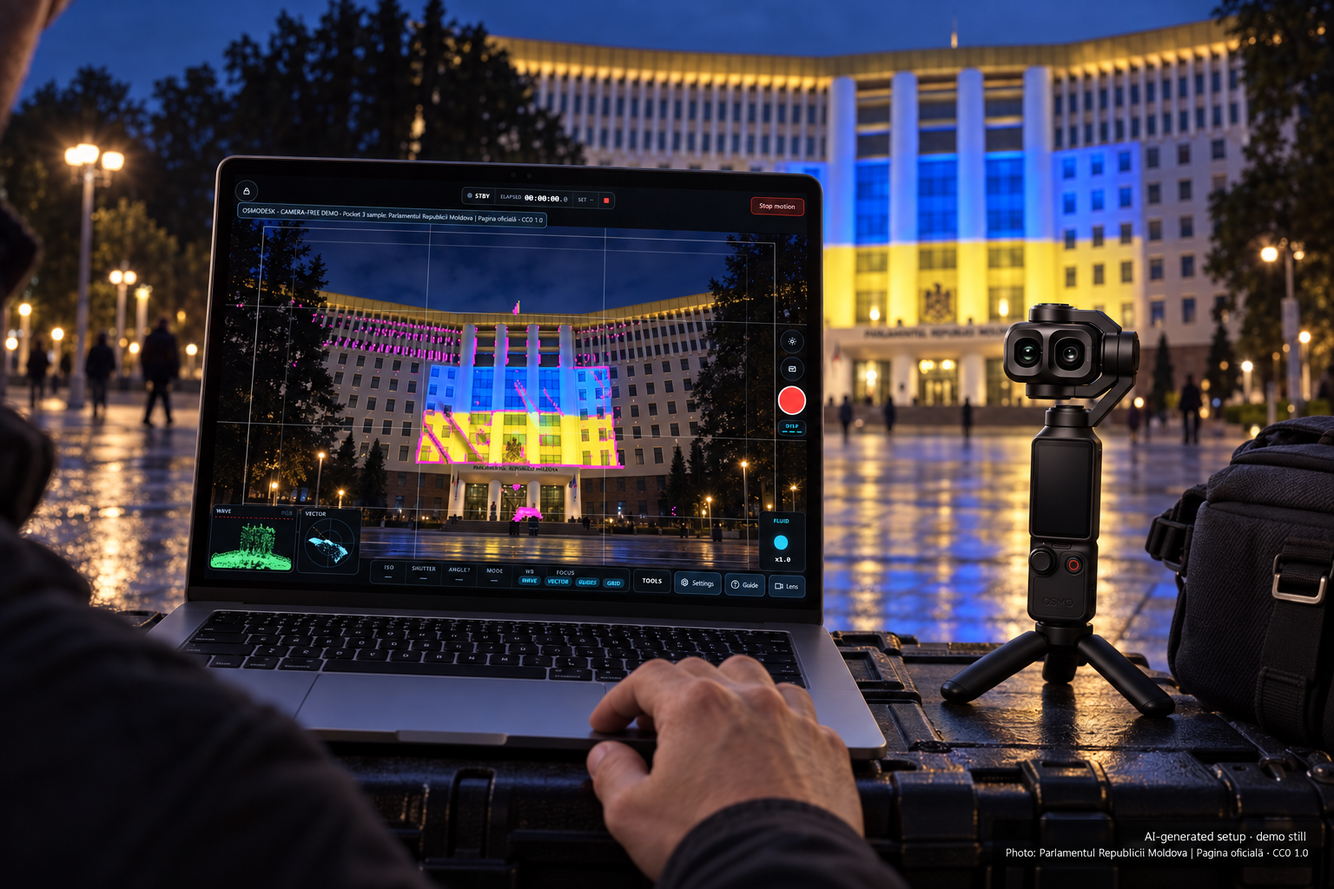
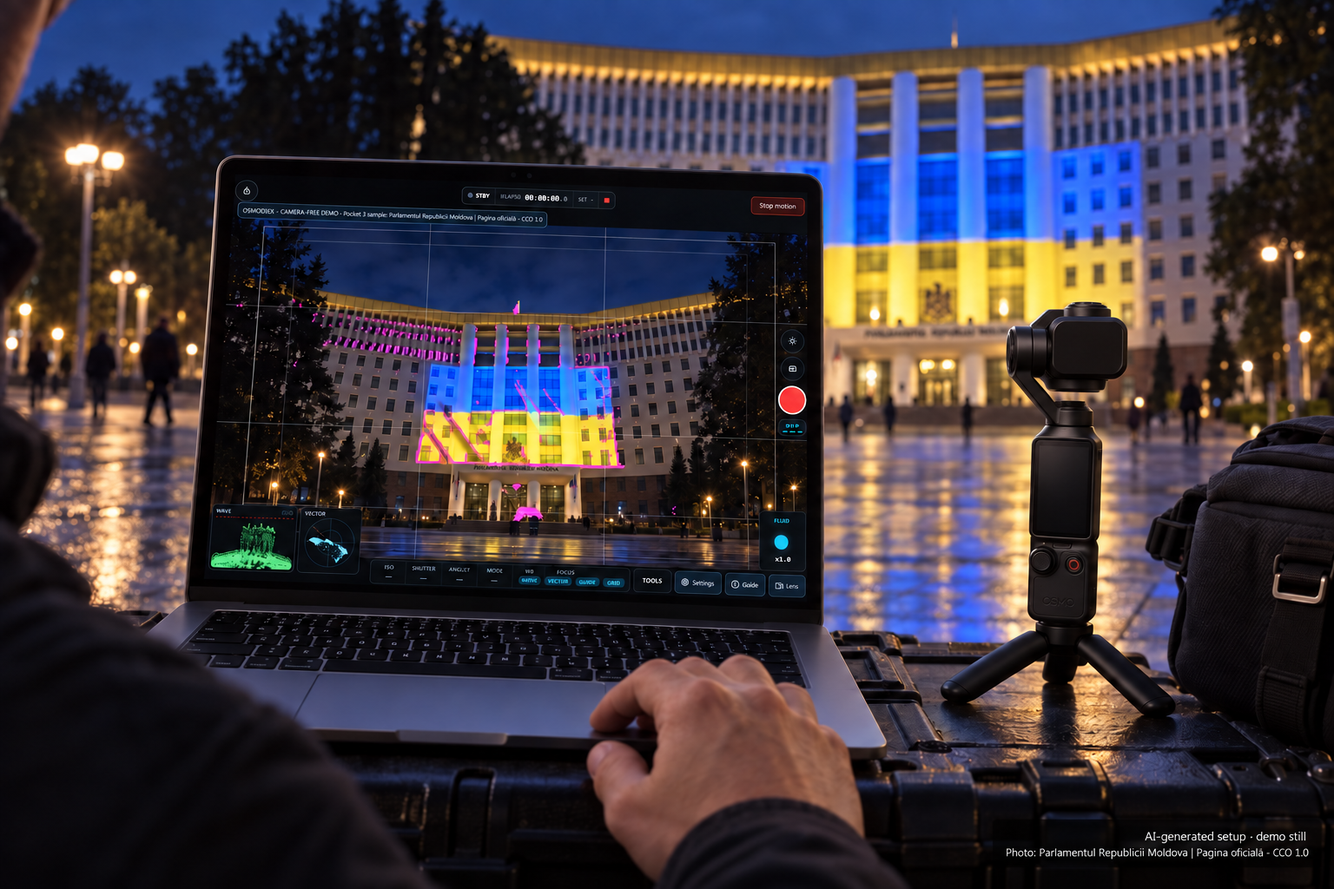
docs: add Shot Studio and country scenes with corrected camera direction

diff --git a/docs/images/location-studio-prompts.md b/docs/images/location-studio-prompts.md
@@ -1,0 +1,53 @@
+# Country and Shot Studio image prompts
+
+Created on 2026-09-15 using the built-in image-generation tool, not the API/CLI.
+No camera connection, paid AI Shot Copilot request, or physical recording was used.
+
+## Reference roles and provenance
+
+The country scenes used the earlier riverside equipment illustration for product
+identity and the actual cinema screenshot for UI layout. All Niger sunset pixels
+and source-photo credit claims were removed from these three new illustrations.
+Their country views, on-screen pictures and scope traces are AI-generated, not
+new Pocket sample photographs or app-calculated measurements.
+
+The Studio scenes used the corrected Dolomites equipment illustration for camera
+orientation and the actual Compose/Director screenshots for their screen contents.
+Those captures show a synthetic three-position draft, not operator data.
+
+Camera-head direction was corrected in all five location scenes. The three new
+country scenes depict rear-facing gimbal heads aimed toward their subjects; the
+earlier riverside and night-scene files were also corrected at the user's request.
+Previous versions remain in Git history. Their existing photo attribution remains
+required: see [sample credits](demo-samples/README.md).
+
+All generated screens and hardware geometry remain illustrative, not pixel-exact
+or hardware-verification evidence. The lens fronts need not be visible: the
+operator viewpoint is behind the filming camera.
+
+## kyoto — osmodesk-kyoto-japan-illustration.png
+
+Use case: compositing. Make a new 1536x1024 landscape location variant of the OsmoDesk equipment illustration. Input image 1 is the edit target: preserve the identities and believable proportions of the black DJI Osmo Pocket 4P camera, its miniature tripod, and the laptop, but replace the setting and composition completely as specified. Input image 2 is the actual OsmoDesk cinema UI layout reference. Preserve its restrained dark panels, thin framing guides, lower-left scopes, right-side red record and cyan joystick, bottom Tools / Settings / Guide / Lens controls. Replace ALL Niger sunset photo pixels on the screen with a newly generated view of the specified country scene. The on-screen scene must convincingly match the environment behind the equipment, not show a different country. Remove the old photographer attribution and all Pocket 3 sample claims; these new location views and their demo scopes are entirely AI-generated. Render the existing app's overlay types over the new picture, confined to the screen plane, not floating in the air. They are illustrative demo graphics, not measured live telemetry. Keep STBY, not a confirmed recording or fake connected readout. Show a legible small 'OsmoDesk · DEMO' screen label. The physical Pocket 4P MUST retain its TWO lenses side-by-side in a horizontal gimbal head, asymmetrical gimbal arm, vertical compact handle screen, joystick and red-ring record button. No single-lens Pocket 3 substitution, no giant camera, no extra lens. Equipment should rest safely on a sturdy surface. No dangling laptop, unsafe ledge, rain on powered electronics or exaggerated water reflections. Natural materials, real texture, editorial photography, beautiful but not glossy sci-fi. Camera and laptop screen both crisp and large enough to recognize. The laptop is the required computer host. Do not add a standalone phone claim or imaginary app functions. New setting: Kyoto, Japan, quiet historic Higashiyama-style lane just after sunset. View from inside a sheltered small wooden storefront alcove onto a narrow stone lane, dark timber facades, warm paper lanterns and a softly visible traditional pagoda roof farther away; damp stone after earlier rain but the equipment is dry under the eaves. Laptop on a simple dry wooden counter, Pocket 4P on tripod beside it, natural adult hand near trackpad. A new closer side-angle composition, laptop nearer foreground right, camera nearer left, lane depth visible between them; do not copy the riverbank table arrangement. Screen picture is a tighter framed view of this same lantern-lit Kyoto lane. Overlay thin thirds/safe-area lines, subtle magenta peaking along selected crisp roof and lantern edges, and two small lower-left waveform and vectorscope panels. Restrained warm amber against indigo dusk, realistic street scale, avoid tourist stereotypes, geisha costumes, invented readable Japanese signage and fantasy buildings. Small unobtrusive two-line caption: 'Kyoto, Japan' and 'AI-generated scene + demo screen'.
+
+## dolomites — osmodesk-dolomites-italy-illustration.png
+
+Use case: compositing. Make a new 1536x1024 landscape location variant of the OsmoDesk equipment illustration. Input image 1 is the edit target: preserve the identities and believable proportions of the black DJI Osmo Pocket 4P camera, its miniature tripod, and the laptop, but replace the setting and composition completely as specified. Input image 2 is the actual OsmoDesk cinema UI layout reference. Preserve its restrained dark panels, thin framing guides, lower-left scopes, right-side red record and cyan joystick, bottom Tools / Settings / Guide / Lens controls. Replace ALL Niger sunset photo pixels on the screen with a newly generated view of the specified country scene. The on-screen scene must convincingly match the environment behind the equipment, not show a different country. Remove the old photographer attribution and all Pocket 3 sample claims; these new location views and their demo scopes are entirely AI-generated. Render the existing app's overlay types over the new picture, confined to the screen plane, not floating in the air. They are illustrative demo graphics, not measured live telemetry. Keep STBY, not a confirmed recording or fake connected readout. Show a legible small 'OsmoDesk · DEMO' screen label. The physical Pocket 4P MUST retain its TWO lenses side-by-side in a horizontal gimbal head, asymmetrical gimbal arm, vertical compact handle screen, joystick and red-ring record button. No single-lens Pocket 3 substitution, no giant camera, no extra lens. Equipment should rest safely on a sturdy surface. No dangling laptop, unsafe ledge, rain on powered electronics or exaggerated water reflections. Natural materials, real texture, editorial photography, beautiful but not glossy sci-fi. Camera and laptop screen both crisp and large enough to recognize. The laptop is the required computer host. Do not add a standalone phone claim or imaginary app functions. New setting: Italian Dolomites, a calm clear morning on a mountain refuge terrace with jagged pale limestone peaks, green alpine meadow and distant forest. Credible expansive Dolomite scenery, natural late-spring daylight, no impossible cliff edge or invented famous-building claim. An unbranded compact laptop sits on a sturdy low field table on the broad flat terrace; Pocket 4P on mini tripod beside it. Photograph from a slightly higher diagonal viewpoint showing enough table and terrain to feel genuinely portable; a hiking jacket sleeve and hand at trackpad, modest camera bag underneath, no office mug or unrelated props. Arrange laptop prominently toward center-left with camera close to its near-right corner and open mountain vista across upper half. Laptop picture is a fresh AI-generated view of these same peaks and meadow, with a tighter composition matching the background lighting. Clearly visible thin thirds and safe-area guides, restrained zebra stripes only on tiny brightest cloud or sunlit snow highlights, lower-left waveform and RGB histogram, familiar actual cinema UI controls. Bright fresh daylight, matte screen with believable subtle reflections, realistic fabric and stone texture. Small unobtrusive two-line caption: 'Dolomites, Italy' and 'AI-generated scene + demo screen'.
+
+## marrakech — osmodesk-marrakech-morocco-illustration.png
+
+Use case: compositing. Make a new 1536x1024 landscape location variant of the OsmoDesk equipment illustration. Input image 1 is the edit target: preserve the identities and believable proportions of the black DJI Osmo Pocket 4P camera, its miniature tripod, and the laptop, but replace the setting and composition completely as specified. Input image 2 is the actual OsmoDesk cinema UI layout reference. Preserve its restrained dark panels, thin framing guides, lower-left scopes, right-side red record and cyan joystick, bottom Tools / Settings / Guide / Lens controls. Replace ALL Niger sunset photo pixels on the screen with a newly generated view of the specified country scene. The on-screen scene must convincingly match the environment behind the equipment, not show a different country. Remove the old photographer attribution and all Pocket 3 sample claims; these new location views and their demo scopes are entirely AI-generated. Render the existing app's overlay types over the new picture, confined to the screen plane, not floating in the air. They are illustrative demo graphics, not measured live telemetry. Keep STBY, not a confirmed recording or fake connected readout. Show a legible small 'OsmoDesk · DEMO' screen label. The physical Pocket 4P MUST retain its TWO lenses side-by-side in a horizontal gimbal head, asymmetrical gimbal arm, vertical compact handle screen, joystick and red-ring record button. No single-lens Pocket 3 substitution, no giant camera, no extra lens. Equipment should rest safely on a sturdy surface. No dangling laptop, unsafe ledge, rain on powered electronics or exaggerated water reflections. Natural materials, real texture, editorial photography, beautiful but not glossy sci-fi. Camera and laptop screen both crisp and large enough to recognize. The laptop is the required computer host. Do not add a standalone phone claim or imaginary app functions. New setting: Marrakech, Morocco, a shaded riad rooftop terrace in late-afternoon golden light, ochre medina rooftops, palms and the recognizable proportion of a distant square minaret against hazy sky. A travel filmmaker's compact station on a solid understated plaster-and-wood terrace table well behind a safe broad parapet. Side-lit laptop open prominently in foreground, Pocket 4P to its side on the miniature tripod, adult hand casually operating trackpad, subtle woven bag on the floor. New offset over-the-shoulder composition with layered rooftops receding diagonally, not the same frontal riverbank scene. Be respectful and geographically credible: no desert dunes in the medina, no random camels, fantasy domes or invented Arabic lettering. On-screen AI-generated picture is a beautifully composed tighter view of the same ochre rooftops and minaret in the same light. Overlay thin thirds and safe-area lines, subtle center crosshair, two small lower-left RGB parade and histogram panels; do not blanket the whole photograph in false colour. Familiar OsmoDesk controls remain readable around the image. Terracotta, soft olive and pale blue with authentic plaster grain and restrained shadows; realistic screen brightness rather than glowing neon. Small unobtrusive two-line caption: 'Marrakech, Morocco' and 'AI-generated scene + demo screen'.
+
+## Shared camera-orientation correction
+
+`SUBJECT` was replaced with the corresponding lane, mountains, rooftops, river
+or illuminated building. Each image was edited separately.
+
+Use case: precise-object-edit. Correct the physical camera aiming direction in this image. The current small DJI Osmo Pocket 4P is mistakenly aiming its lenses toward the viewer/operator. ROTATE ONLY ITS MOTORIZED GIMBAL HEAD by 180 degrees around the vertical pan axis so the two lens fronts now face AWAY FROM THE VIEWER, toward SUBJECT, matching the subject shown on the laptop. The photographer of this illustration is behind the filming camera. We MUST now see the opaque matte-black BACK and a little side of the rounded rectangular dual-camera module, NOT its two circular glass lens fronts. Do not paint two lenses on the rear, do not put a display on the camera head, do not leave the head facing the viewer, and do not solve this by rotating the entire picture. Keep the head's recognizable compact horizontal module shape and credible gimbal mechanics; its optical axis points into the background, not at the laptop or operator. Keep the handle screen and joystick facing the operator as before; the independently rotating gimbal head points the opposite way. Preserve the complete laptop, its current screen picture and every overlay, all hands, tripod, handle, scene, lighting, framing, all captions and attributions EXACTLY. This is a small equipment-orientation repair, not a redesign or new scene. If needed place the existing tripod a few centimeters toward the far edge of its same supporting surface so it has a clear unobstructed sightline, but make no other scene changes. Most important invariant: no front-facing lenses visible to this viewpoint; see the back of the gimbal head while it films the scenery.
+
+## compose — osmodesk-studio-compose-illustration.png
+
+Use case: compositing. Create a photorealistic 1536x1024 landscape OsmoDesk SHOT STUDIO usage illustration, specifically the COMPOSE workspace, NOT the cinema-monitor page. Image 1 is the equipment appearance/orientation reference; preserve the compact Pocket 4P, tripod and laptop identities, but replace the environment and framing. Image 2 is the actual current Compose screenshot and MUST supply the entire laptop interface. Composite its exact layout: OsmoDesk heading; Compose/Director/Shoot/Review/Rig tabs with Compose selected; SHOT card named Architectural reveal; 21.0s timeline and circular travel map; WAYPOINTS editor listing P1 Establish, P2 Reveal, P3 Settle with framing/hold controls. Keep the offline demo and preview-only warnings; no invented camera telemetry. Absolutely no large video/photo monitor, no waveform overlay, no replacement with the cinema page. Scene: a realistic small architecture/model-making studio in soft daylight, a white architectural scale model and timber facade maquette arranged as the filming subject on a broad workbench in the middle background, subtle practical filming light and tasteful workshop texture. Laptop large in the foreground under an operator's naturally resting hand; Pocket 4P on stable mini tripod to one side between operator and model. MOST IMPORTANT: the Pocket camera's optical axis points AWAY from viewer toward the architectural model; show opaque BACK/rear three-quarter of its motorized camera head, never two front-facing lenses aimed at the operator. Keep its handle screen facing the operator while its head points toward the model. Keep gimbal mechanics and size credible, unobstructed sightline above tabletop. The user is composing a shot before filming, so its dark handle screen and offline laptop are honest. A new editorial viewpoint angled over the workbench makes the screen large and readable and the subject relationship obvious. No cloned outdoor mountain scenery, no invented widgets, no sci-fi floating UI. Natural tactile materials, realistic daylight and soft shadows, keep app typography closely matched to supplied screenshot. Small neat caption: 'Shot Studio · Compose'. Second line: 'AI-generated setup · actual UI reference'.
+
+## director — osmodesk-studio-director-illustration.png
+
+Use case: compositing. Create a photorealistic 1536x1024 landscape OsmoDesk SHOT STUDIO usage illustration, specifically the DIRECTOR rehearsal workspace, not cinema monitoring. Image 1 is the equipment identity and rear-facing-head orientation reference, NOT an environment to keep. Image 2 is the actual Director screenshot to composite faithfully on the laptop: OsmoDesk header, all five workspace tabs with Director selected, title Give every move a moment, large angular three-point trajectory chart, Architectural reveal name, Shot pace panel with 21.00 s, target-duration control and Check timing / Find workable timing buttons, scrubber, Preview shot / Start / Next beat controls. Preserve offline/demo and PREVIEW ONLY / NO CAMERA MOVEMENT states. Do not turn this into a live view, a 3D scene editor, a tracking system, or an invented AI results dashboard. New scene: a quiet Portuguese-style stone cloister courtyard on an architectural filming day, repeated warm limestone arches and a small central garden in soft late-afternoon light. A travel filmmaker sits behind a compact stable folding production table in the shade, laptop dominating the foreground, small black Pocket 4P on mini tripod at the outer side of the table with a clear sightline into the repeating arches. Correct camera positioning is essential: optical axis points INTO the courtyard, AWAY from the viewer/operator; show the opaque back and side of the compact horizontal gimbal head, NOT front lens glass. Handle screen still faces its operator. Equipment stays safely inside the courtyard, away from edges, no perched camera or blocked lens path. A thoughtful over-shoulder composition with a small part of sleeve/hand, real stone texture, calm warm natural lighting, screen and rig in focus, arches recognizable behind. Screen must be readable and based closely on the supplied actual UI, not a picture of the arches. This image demonstrates offline timing rehearsal rather than recording. No giant monitors or unrelated props. Caption: 'Shot Studio · Director'. Second line: 'AI-generated setup · actual UI reference'.

diff --git a/docs/REDDIT-UPDATE-2026-09-15.md b/docs/REDDIT-UPDATE-2026-09-15.md
@@ -1,34 +1,37 @@
-# OsmoDesk update: repeatable Pocket moves, motion timelapse and a proper shot workspace (WIP)
+# I'm turning my Pocket 4P into a programmable camera rig — OsmoDesk update (WIP)
 
-I started OsmoDesk because I wanted to plan and repeat shots with my Pocket 4P,
-not just press record from another screen. It's still a work in progress, but
-it's grown into quite a bit more than a browser remote.
+I wanted more from my Pocket 4P than a remote record button: set up a shot,
+shape the movement, rehearse it, then run it again without starting from scratch.
+That's why I started building OsmoDesk.
 
-Some recent additions, alongside the existing controls:
+It's still WIP, but there's a lot to play with now:
 
-- A shot workspace for saving framing points, setting easing and holds, and
-  previewing the path before moving the camera.
-- Motion timelapse, and recording workflows that wait for the camera to confirm
-  recording before the move starts.
-- A/B autofocus targets. AF-S gave me a visible near/far/near change on my 4P.
-  Important caveat: this also changes spot metering; it isn't manual rack focus.
-- Rearrangeable panels, phone controls, live view, scopes, zebras, peaking and LUT
-  monitoring, plus take notes and motion-data exports.
-- Optional AI timing suggestions for points you've already set. Bring your own
-  API key, preview the suggestions and choose what to apply. AI can't move or
-  record with the camera.
+- **Plan the shot:** save framing points, adjust easing and holds, and preview
+  the path before the camera moves.
+- **Make it repeatable:** programmed moves, motion timelapse, take notes and
+  motion-data exports. The record-and-move workflow waits for recording confirmation.
+- **See what you're doing:** cinema monitoring with guides, zebras, peaking,
+  waveform, histogram, vectorscope and viewing LUTs.
+- **Make it yours:** rearrange the workspace and control it from a desktop or phone.
 
-Repo: https://github.com/ElectronicPaper/OsmoDesk
+The new optional extra is **AI Shot Copilot**. Give it a brief like “a slow
+reveal with a longer hold at the end” and it offers two timing treatments for
+framing points you've already set. Preview them, apply one, or keep your original.
+It uses your own OpenAI API key; the rest of OsmoDesk works without AI.
+You review the planning data before it's sent to OpenAI; no footage is uploaded.
+AI cannot connect, move or record the camera.
 
-You still need a computer or supported rig host running the Python server;
-the phone is a control screen. I've tested on my Pocket 4P, not the Pocket 3 or 4.
+[Repo and setup instructions](https://github.com/ElectronicPaper/OsmoDesk)
 
-The riverside and night-shoot setup images are AI-generated, based closely on
-the actual UI. Guides, zebras, peaking and scopes in the linked demo screenshots
-are rendered by the app over [credited Pocket 3 sample photos](https://github.com/ElectronicPaper/OsmoDesk/blob/main/docs/images/demo-samples/README.md),
-not live footage. Real setup photos will follow.
+You need a computer or supported rig host running the Python server; the phone
+is a control screen. Tested on my **Pocket 4P only**, not Pocket 3 or 4.
 
-I still wish DJI would offer an official Pocket Bluetooth SDK. There are so many
-useful little tools people could build around these cameras.
+The setup images are AI-generated, with screens based on the real interface.
+The country scenes and their demo pictures are generated too, not real test
+footage. Other demo captures use [credited sample photos](https://github.com/ElectronicPaper/OsmoDesk/blob/main/docs/images/demo-samples/README.md).
+Real setup photos will follow.
 
-If you try it, I'd love to hear what would make it useful for your own shots.
+I still wish DJI offered an official Pocket Bluetooth SDK—there's a lot the
+community could build for these cameras.
+
+What would you try first: product shots, architectural reveals, or motion timelapse?

diff --git a/docs/images/README.md b/docs/images/README.md
@@ -1,5 +1,47 @@
 # OsmoDesk images
 
+## Shot Studio and three more countries — 2026-09-15
+
+### Compose and Director
+
+![Compose in an architecture workshop](osmodesk-studio-compose-illustration.png)
+
+![Director rehearsal in a stone courtyard](osmodesk-studio-director-illustration.png)
+
+These two 1536 × 1024 AI-generated setup illustrations show the actual
+**Shot Studio** Compose and Director layouts, not the cinema monitor.
+The camera heads point toward the model/courtyard rather than the operator.
+They use [Compose](studio-compose-demo-20260915.png) and
+[Director](studio-director-demo-20260915.png) UI references captured at 1440 × 1120
+from source `b58e05e`, using a synthetic `Architectural reveal` draft.
+
+The temporary loopback host started disconnected and rejected camera/AI/mutation
+requests. Only the non-actuating `/api/director/preview` POST was allowed for the
+Director chart; its arithmetic came from the canonical preview engine. The
+capture-only footer identifies the demo. Both pages loaded without JavaScript
+errors. The host was stopped afterward. No camera session or private user state
+was used. Generated screen renderings are illustrative, not pixel-exact.
+
+### Country variants
+
+- [Kyoto, Japan](osmodesk-kyoto-japan-illustration.png): lantern-lit lane, framing
+  guides, illustrative peaking and scopes.
+- [Dolomites, Italy](osmodesk-dolomites-italy-illustration.png): mountain terrace,
+  framing guides and illustrative zebra/scope overlays.
+- [Marrakech, Morocco](osmodesk-marrakech-morocco-illustration.png): rooftop view,
+  framing guides and illustrative scope graphics.
+
+These three 1536 × 1024 images are entirely AI-generated, including their location
+views, on-screen pictures and scope graphics. They are not newly sourced Pocket
+sample photographs and do not prove the depicted scope measurements. Each uses
+the existing cinema interface as a layout reference and carries an AI/demo label.
+The camera heads were corrected to aim into the scene, showing their backs rather
+than pointing the lenses toward the viewer. The two earlier location illustrations
+below received the same correction; their original licensed-photo credits remain.
+
+All five new illustrations and the orientation corrections used the **built-in
+image-generation tool**. [Full prompts and reference notes](location-studio-prompts.md).
+
 ## Location scenes with active overlays — 2026-09-15
 
 ![Riverside location illustration](osmodesk-riverside-overlay-illustration.png)
@@ -11,7 +53,9 @@ The locations were invented to relate to the sample pictures, not to document
 the actual photographers' setups. Both preserve the Pocket 4P equipment identity
 and show the required laptop host. Screens are AI-rendered interpretations of the
 actual captures below, not pixel-exact screenshots or connected-camera evidence.
-All earlier illustrations remain available unchanged.
+The earlier indoor illustrations remain unchanged. These two location files were
+subsequently corrected so the gimbal heads face the scenery; the previous versions
+remain available in Git history.
 
 Actual camera-free captures from source `204884b` (runtime unchanged from the
 earlier source `52044c8`):

diff --git a/README.md b/README.md
@@ -21,6 +21,20 @@ with access to the camera network. This is a browser-based controller, not a pac
 Core2 firmware belongs exclusively to OsmoPalm. OsmoDesk does not require a Core2;
 the serial driver remains here only as an optional integration adapter.
 
+## Inside Shot Studio
+
+![OsmoDesk Compose workspace with framing points and timing controls; AI-generated setup using an actual UI reference](docs/images/osmodesk-studio-compose-illustration.png)
+
+**Compose:** define framing points, easing and holds before moving the camera.
+[Actual camera-free Compose capture](docs/images/studio-compose-demo-20260915.png).
+
+![OsmoDesk Director workspace with a three-point path and timing rehearsal; AI-generated setup using an actual UI reference](docs/images/osmodesk-studio-director-illustration.png)
+
+**Director:** inspect the angular path and rehearse its timing without camera
+movement. [Actual camera-free Director capture](docs/images/studio-director-demo-20260915.png).
+Both setup scenes are AI-generated from real interface references; they are not
+physical test photographs. The captures use a synthetic three-position draft.
+
 ## A look at the setup
 
 ![OsmoDesk riverside demo: a Pocket 4P beside a laptop showing a sunset with framing guides, zebras, waveform and histogram; AI-generated illustration](docs/images/osmodesk-riverside-overlay-illustration.png)
@@ -54,6 +68,12 @@ not invented graphs or measurements from a connected camera.
 Phones access the host over your trusted LAN; this is not a standalone
 phone-to-camera app. See [all captures, earlier illustrations and generation
 notes](docs/images/README.md).
+
+More imagined locations: [Kyoto, Japan](docs/images/osmodesk-kyoto-japan-illustration.png) ·
+[Dolomites, Italy](docs/images/osmodesk-dolomites-italy-illustration.png) ·
+[Marrakech, Morocco](docs/images/osmodesk-marrakech-morocco-illustration.png).
+These three scenes, their on-screen pictures and scope graphics are AI-generated
+illustrations—not additional Pocket sample photographs or measured scope captures.
 
 ## Run locally
 
